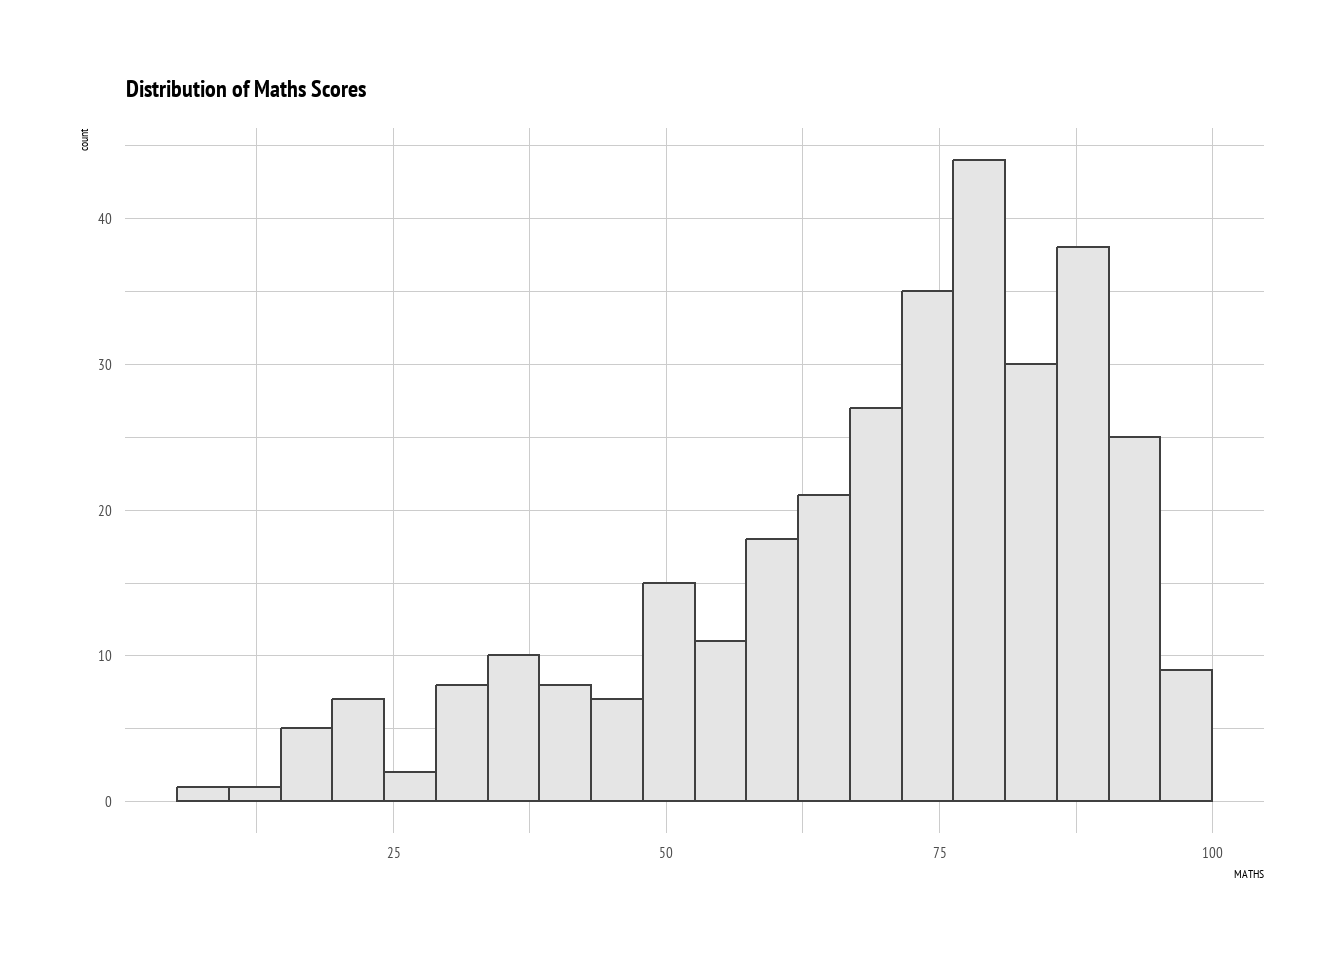
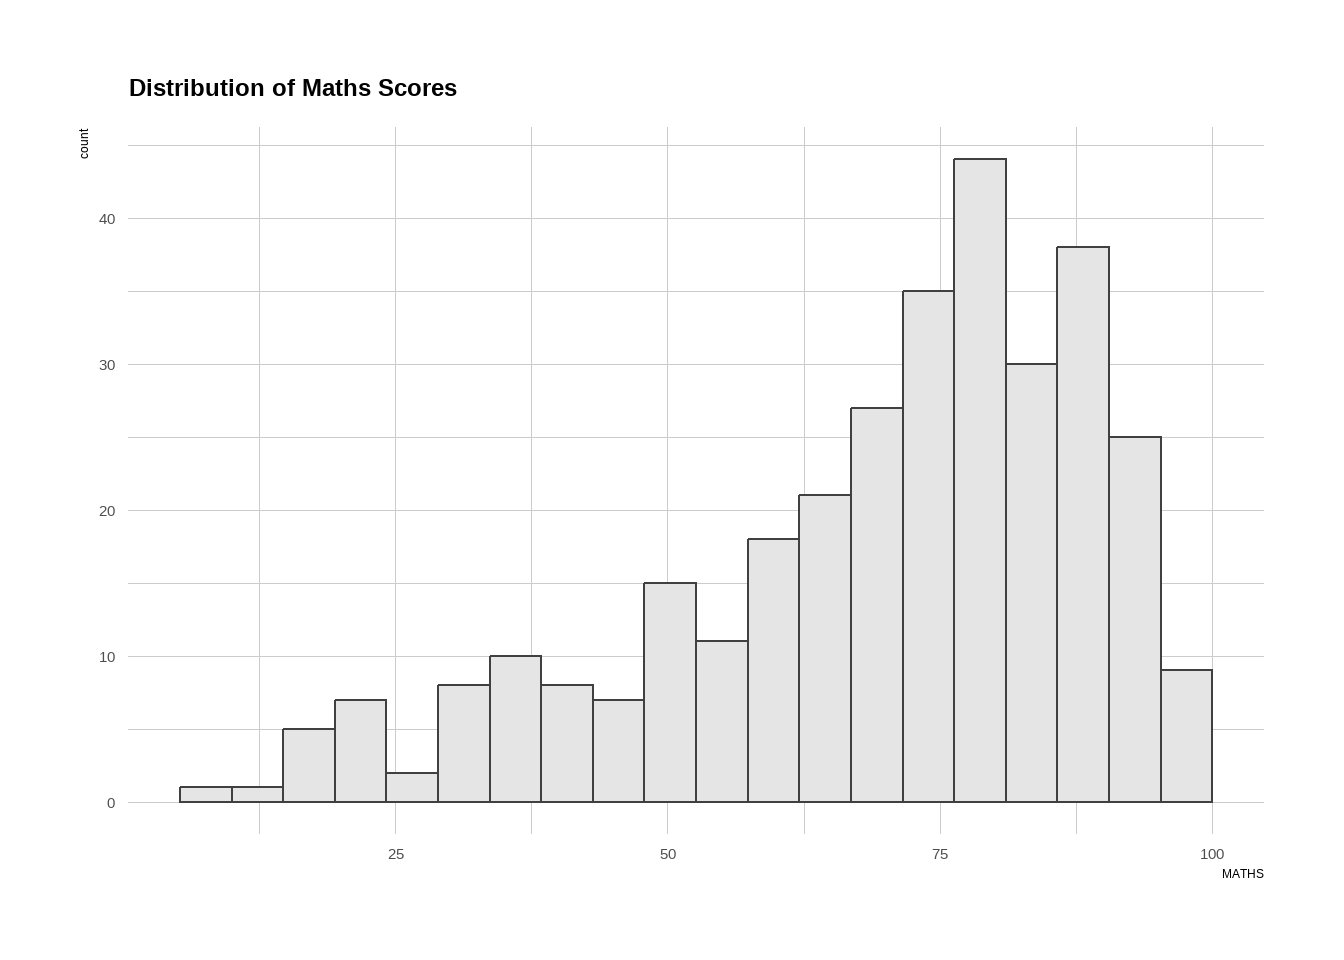
Feat:update hands-on ex 02

diff --git a/_site/Hands-on_Ex/Hands-on_Ex02/Hands-on_Ex02.html b/_site/Hands-on_Ex/Hands-on_Ex02/Hands-on_Ex02.html
@@ -558,11 +558,9 @@ pre > code.sourceCode > span > a:first-child::before { text-decoration: underlin
 </div>
 <p>The code chunk below solves the system warning when using <strong>hrbthemes</strong> on Windows.</p>
 <div class="cell">
-<details class="code-fold"><summary>Font Setup</summary><div class="code-copy-outer-scaffold"><div class="sourceCode" id="cb2"><pre class="downlit sourceCode r code-with-copy"><code class="sourceCode R"><span><span class="fu">extrafont</span><span class="fu">::</span><span class="fu"><a href="https://rdrr.io/pkg/extrafont/man/loadfonts.html">loadfonts</a></span><span class="op">(</span>device <span class="op">=</span> <span class="st">"win"</span><span class="op">)</span></span>
-<span><span class="fu">sysfonts</span><span class="fu">::</span><span class="fu"><a href="https://rdrr.io/pkg/sysfonts/man/font_add_google.html">font_add_google</a></span><span class="op">(</span><span class="st">"PT Sans Narrow"</span>, <span class="st">"Arial Narrow"</span><span class="op">)</span></span>
+<div class="code-copy-outer-scaffold"><div class="sourceCode" id="cb2"><pre class="downlit sourceCode r code-with-copy"><code class="sourceCode R"><span><span class="fu">extrafont</span><span class="fu">::</span><span class="fu"><a href="https://rdrr.io/pkg/extrafont/man/loadfonts.html">loadfonts</a></span><span class="op">(</span>device <span class="op">=</span> <span class="st">"win"</span><span class="op">)</span></span>
 <span><span class="fu">sysfonts</span><span class="fu">::</span><span class="fu"><a href="https://rdrr.io/pkg/sysfonts/man/font_add_google.html">font_add_google</a></span><span class="op">(</span><span class="st">"Roboto Condensed"</span>, <span class="st">"Roboto Condensed"</span><span class="op">)</span></span>
 <span><span class="fu">showtext</span><span class="fu">::</span><span class="fu"><a href="https://rdrr.io/pkg/showtext/man/showtext_auto.html">showtext_auto</a></span><span class="op">(</span><span class="op">)</span></span></code></pre></div><button title="Copy to Clipboard" class="code-copy-button"><i class="bi"></i></button></div>
-</details>
 </div>
 </section><section id="importing-the-data" class="level3" data-number="2.2"><h3 data-number="2.2" class="anchored" data-anchor-id="importing-the-data">
 <span class="header-section-number">2.2</span> Importing the Data</h3>
